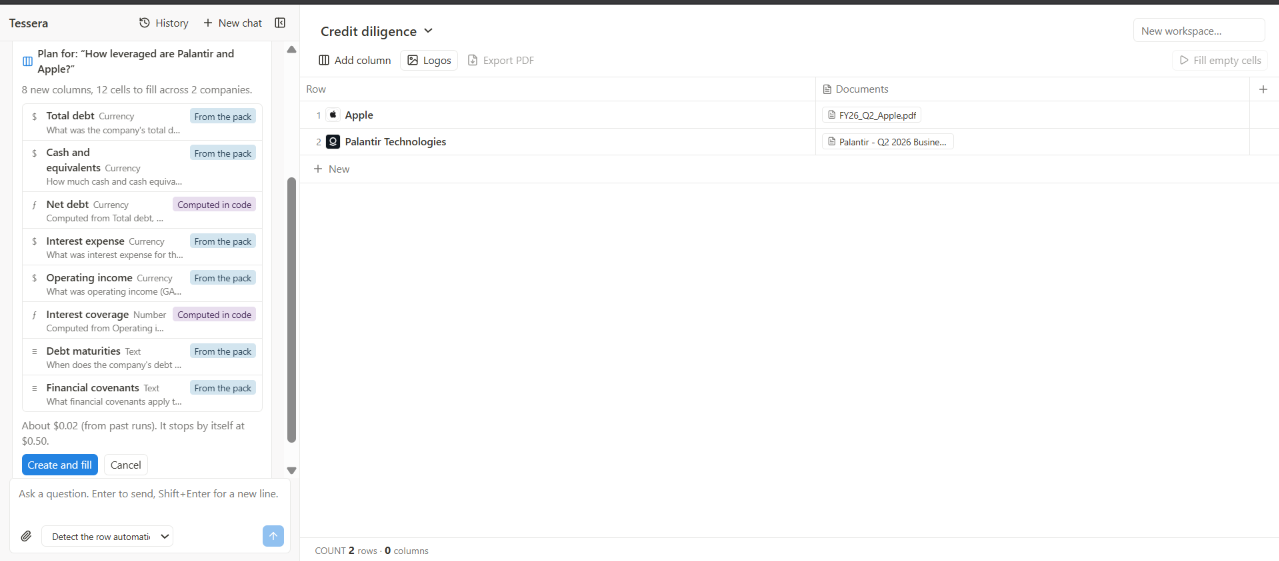
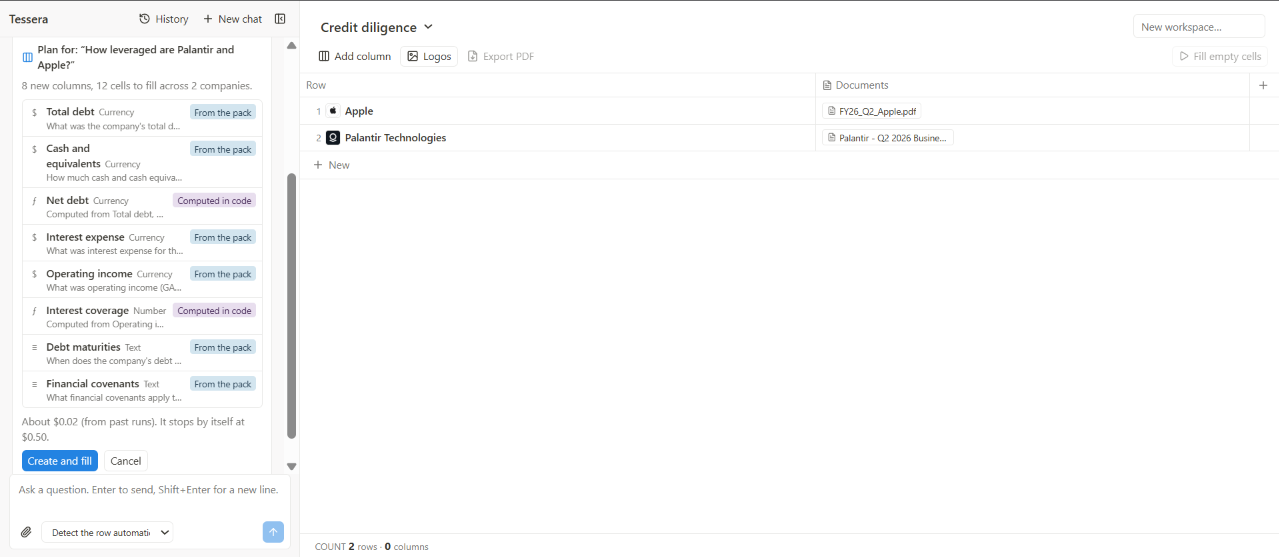
docs: README with architecture, screenshots and honest status

diff --git a/README.md b/README.md
@@ -1,0 +1,112 @@
+# Tessera
+
+A financial research workbench for private equity and credit diligence. Ask a question about public companies and Tessera builds a matrix of **companies x typed questions**, fills every cell from the companies' own filings, and writes the answer from those cells.
+
+Every number is tied to a **verbatim quote** that is checked in code, and it carries its period, units and currency. Derived metrics (net debt, interest coverage) and tie-out checks are computed in code, never by the model. When the documents do not say, the cell says so.
+
+![A filing is attached and matched to a company row](docs/images/01-intake.png)
+
+## Why it is not a chatbot over a table
+
+| Rule | How it is enforced |
+|---|---|
+| Never answer from memory | Cell values come from retrieved document text only. Document text is fenced as data and can never trigger a tool call. |
+| Every answer is cited | A quote must appear verbatim in the cited source, or the cell is not `answered`. |
+| Numbers carry period, units, currency | Scale (`$1.2B`, `402 million`) is parsed in code. An answer that drops a scale printed in its quote is refused. A period must appear in the text it came from. |
+| The model does not do arithmetic | Net debt, interest coverage, margins and growth are computed in code from other cells, and refuse mixed currencies, mixed periods and zero divisors. |
+| Checks are shown, not hidden | Tie-outs (such as gross profit = revenue minus cost) run in code and a failure is shown on the cell with the gap. |
+| "Not applicable" is not "not found" | They are separate cell statuses and are never merged. |
+| Costs are bounded | A cost estimate and a confirmation come before a run. Hard step, time and cost limits apply per turn and per session. |
+
+The pattern throughout: **the model proposes, code decides.**
+
+## How it works
+
+1. **Attach a filing.** Intake identifies the company (name, ticker, domain) and finds or creates its row.
+2. **Ask a question.** "How leveraged are Palantir and Apple?" becomes a **plan card**: which columns, which are computed, and what it will cost.
+
+   ![Plan card: columns from the domain pack, computed columns, a cost estimate before anything runs](docs/images/02-plan-card.png)
+
+3. **Confirm.** Cells are filled with hybrid retrieval (BM25 plus dense vectors, fused with RRF), extraction with quote verification, then computed cells and tie-outs.
+4. **Read the answer.** The chat answer is written from the cells, with `[Row · Column]` citations. Click any cell to see its status, reason and verbatim quote.
+
+   ![A cited chat answer next to a cell showing "Not found" and why](docs/images/03-evidence-and-answer.png)
+
+   The `Not found` above is the intended behaviour. Apple's filing never states a total debt figure, and the tool says what would have to be summed instead of inventing a number.
+
+## Architecture
+
+```mermaid
+flowchart LR
+    UI[React UI<br/>chat + grid + evidence] --> API[FastAPI routes<br/>thin handlers]
+    API --> AGENT[Agent loop<br/>hand-written, hard limits]
+    AGENT --> PLAN[Planner<br/>question to columns]
+    AGENT --> RUN[Matrix runner<br/>estimate, caps, cache]
+    RUN --> RET[Hybrid retrieval]
+    RET --> QD[(Qdrant<br/>dense + BM25)]
+    RUN --> EXT[Extractor<br/>LLM proposes a value + quote]
+    EXT --> VER[Verifier in code<br/>quote, scale, period]
+    VER --> FIN[Finance layer<br/>derived metrics + tie-outs]
+    FIN --> PG[(Postgres<br/>cells, evidence, traces)]
+    AGENT --> PG
+    EXT -. every call traced .-> PG
+```
+
+- **Domain pack.** A JSON file of typed columns, applicability rules, derived metrics and tie-out checks ([credit_pe_diligence.json](backend/app/packs/data/credit_pe_diligence.json), 26 columns). A new pack needs no new logic.
+- **Agent.** A hand-written loop, with a tool registry of Pydantic-typed tools. Costly or destructive actions (remove a row, overwrite a human-edited cell) are stored as pending actions and run only after the user confirms.
+- **Tracing.** One row per LLM call: request id, model, prompt version, tokens in and out, cost, latency, status. Results are cached.
+- **Export.** The grid exports to PDF with a Sources appendix.
+
+## Stack
+
+Python 3.14, FastAPI, Pydantic v2, asyncpg and Postgres, Qdrant, fastembed (BM25), LangChain model adapters, OpenRouter, pytest, ruff, mypy. React 19, TypeScript, Vite, Tailwind, TanStack Table, vitest.
+
+## Run it locally
+
+Requirements: Python 3.14 with [uv](https://docs.astral.sh/uv/), Node 20+, Postgres, an OpenRouter key.
+
+```bash
+# 1. configure (secrets come only from the environment)
+cp .env.example .env          # set OPENROUTER_API_KEY and DATABASE_URL
+
+# 2. database
+uv run python -m backend.app.db.migrate
+
+# 3. backend
+uv run uvicorn backend.app.main:app --port 8000
+
+# 4. frontend
+cd frontend && npm install && npm run dev      # http://localhost:5173
+```
+
+Vectors live in a local folder (`data/qdrant`) unless `QDRANT_URL` is set.
+
+## Tests
+
+```bash
+uv run pytest backend/tests/test_finance_derive.py     # run a file at a time
+cd frontend && npm test
+```
+
+The full backend suite is slow (over ten minutes), so run the files for the area you changed.
+
+## Evaluation
+
+Not published yet. This project reports only numbers that its eval harness produced, so there are no accuracy figures here. Harnesses exist for routing, retrieval, parsing and extraction under [eval/](eval/). The finance eval over real SEC filings is the next step, and its results and a written failure analysis will go in this section.
+
+## Known limits
+
+- A period must be printed in the retrieved text for the cell to carry it.
+- Where a filing combines cash with Treasuries, the cash cell is `not found` rather than a guess.
+- Wording of model answers varies from run to run. Values, quotes and checks do not come from that wording.
+- Tool steps shown while the agent works are not kept after a page reload.
+
+## Status and roadmap
+
+Built: chat with context management, ingestion, hybrid retrieval, verified extraction, matrix runs with estimate and caps, result cache, tracing, intake, agent loop with confirmations, domain pack, plan card, finance layer, grid UI, PDF export, chat history.
+
+Next: finance eval over real filings, one-command Docker setup, Excel export. Possible later: EDGAR ingest by ticker, bank and fintech packs, a CI gate on the eval.
+
+## Data
+
+Evaluated on public SEC filings (EDGAR). Documents you upload stay in your own database and are sent only to the model provider you configure.
